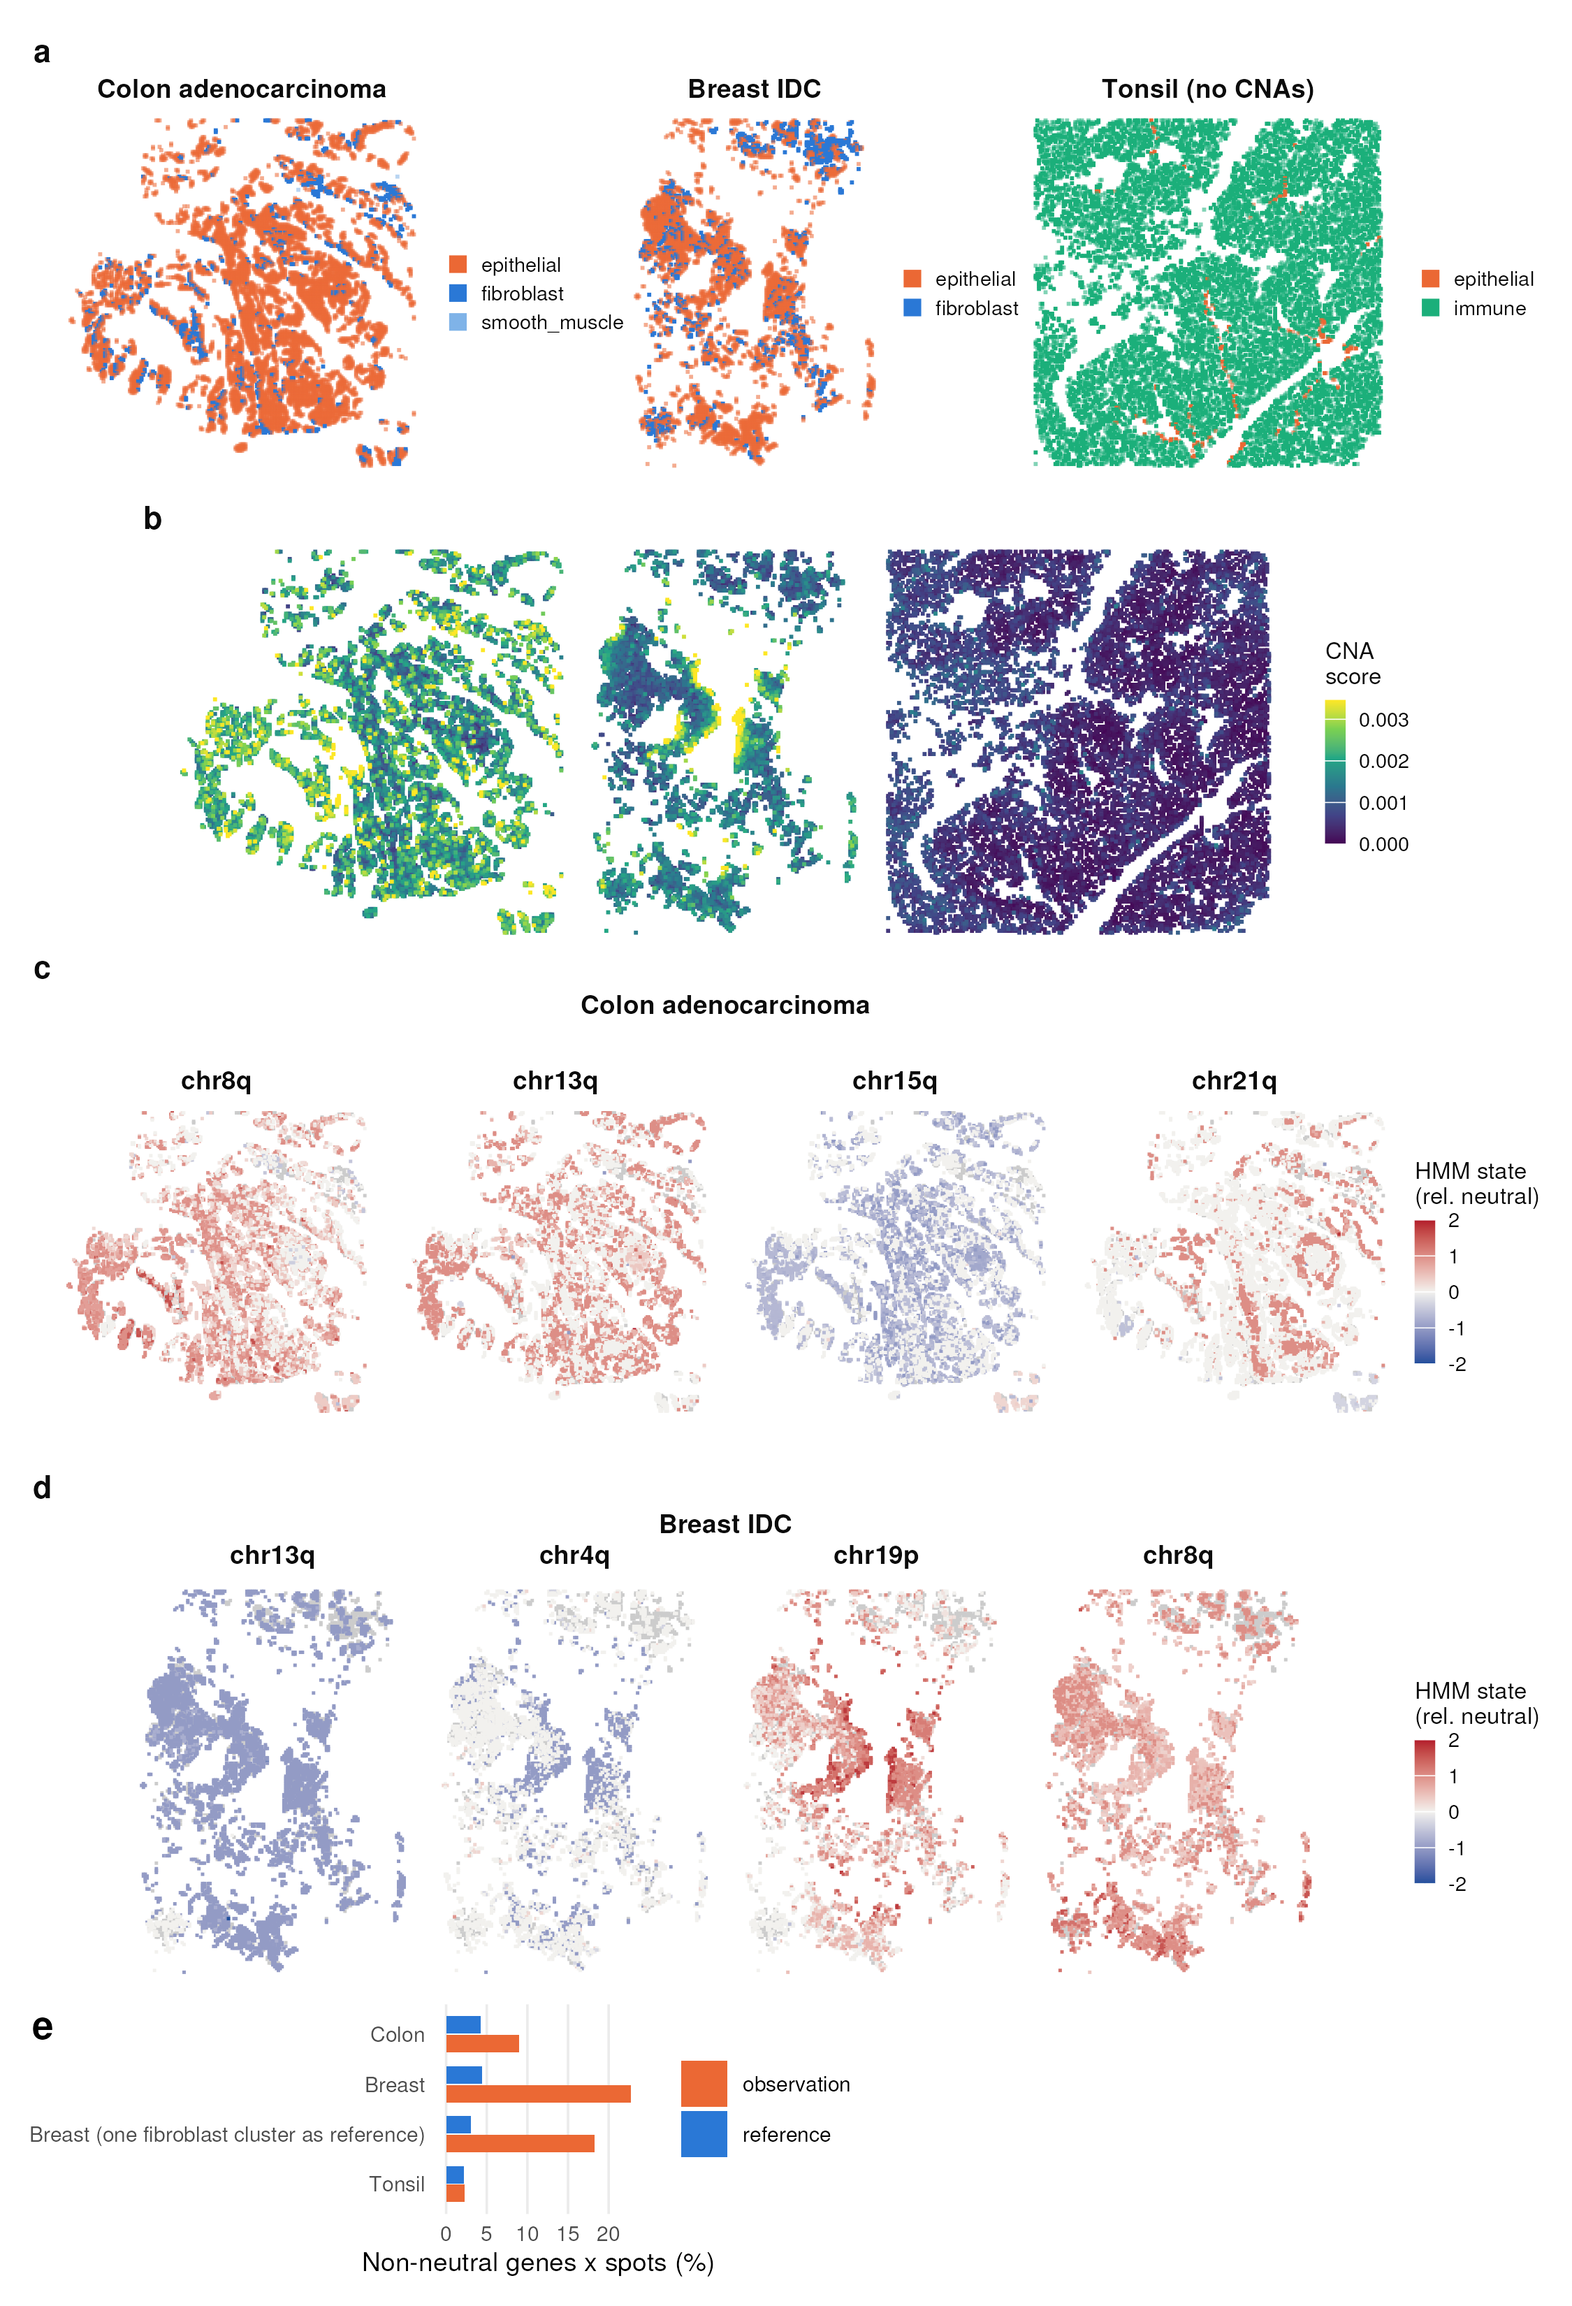
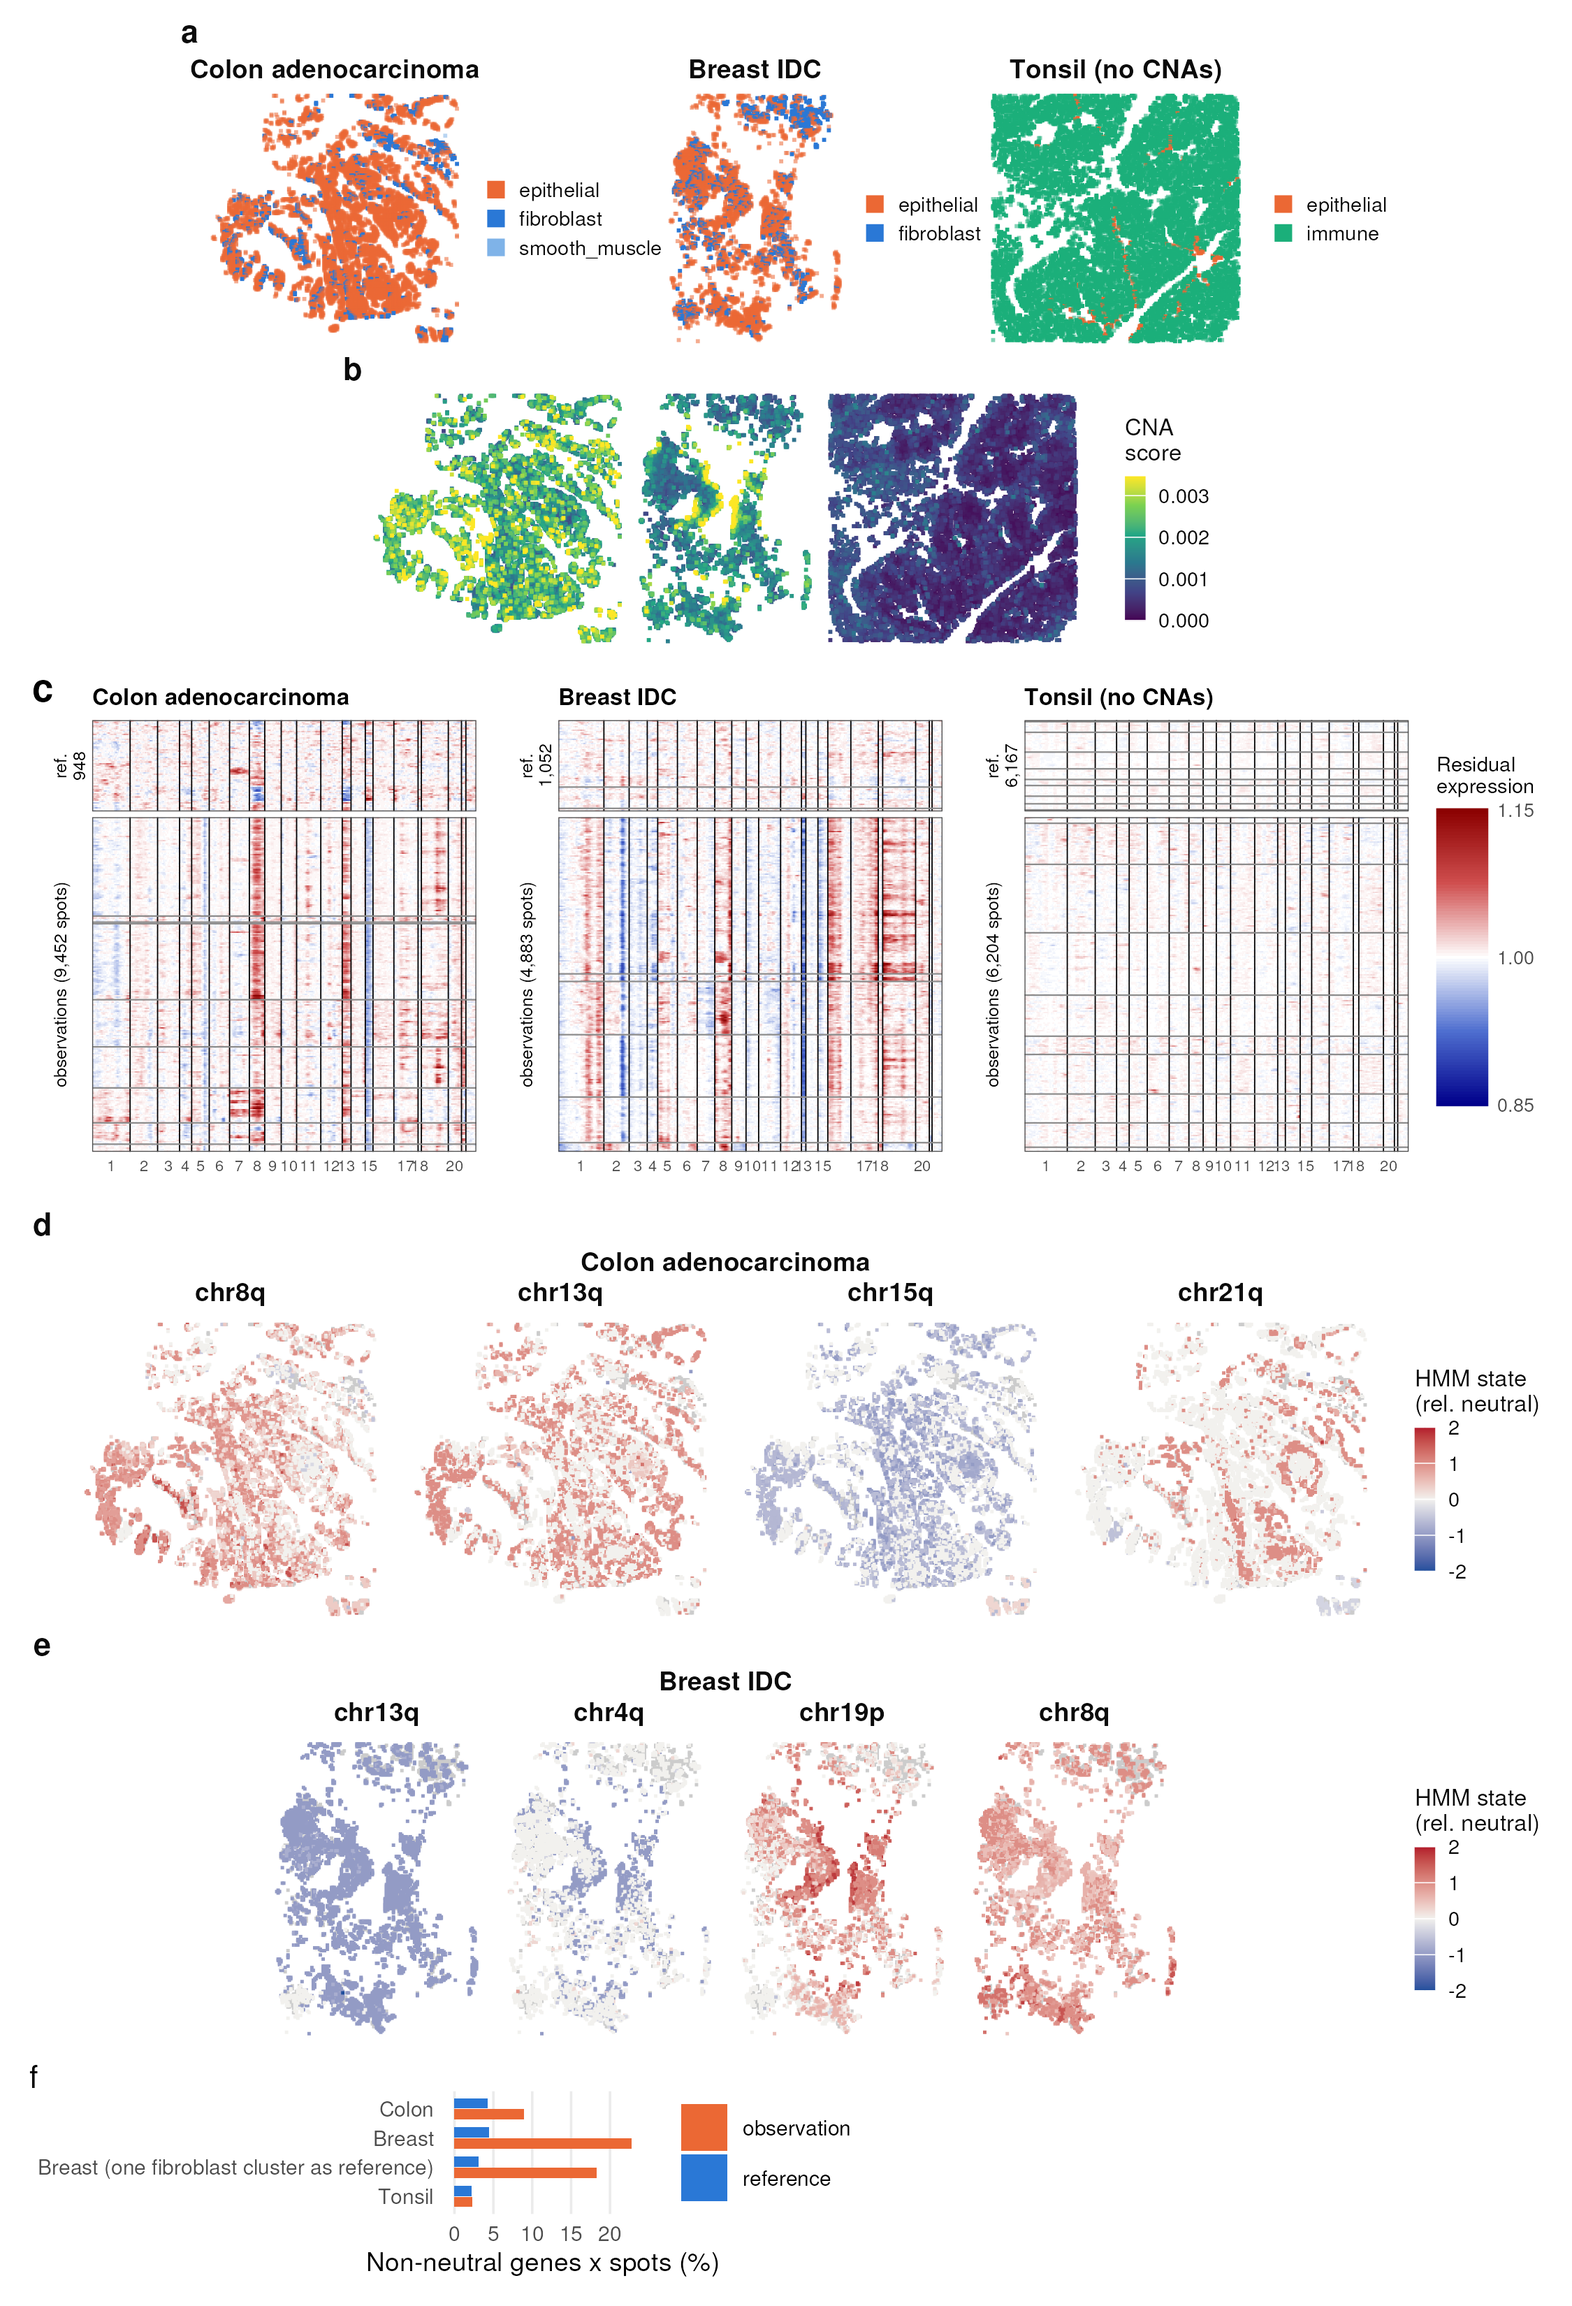
Fig. 9: add genome-wide inferCNV heatmaps for the three Visium HD sections
New panel c (reference and observation spots, chromosomes 1-22, common scale); panels
relettered (d-f), caption and Results references updated; note on colon reference spots
carrying 8q/13q signal at the tumour border.

Changed region(s): [[0.0311, 0.0312, 0.9644, 0.9988], [0.9022, 0.7179, 0.9644, 0.8739], [0.4356, 0.8739, 0.5289, 0.9676]]

diff --git a/sections/results.tex b/sections/results.tex
@@ -110,5 +110,5 @@ inferCNV has been used to map CNAs in spot-based spatial transcriptomics \citep{
 
 \placefloat{fig:8}
 
-In the tonsil, with half of each cluster as the reference for the other half, 2.3\% of genes $\times$ spots were in a non-neutral state without Bayesian filtering, against 9.0\% in the colon and 22.7\% in the breast tumour epithelium (Fig.~\ref{fig:8}b, e). In the colon tumour, gains of 8q and 13q, which are among the most frequent CNAs of colorectal cancer, covered most of the epithelium (59\% and 52\% of epithelial spots), together with a loss of 15q (51\%) (Fig.~\ref{fig:8}c). Gain of 21q was restricted to part of the tumour, and 8q was gained most strongly in a region where 21q was not, indicating spatially separated subclones. In the breast tumour, 13q was lost in 97\% of epithelial spots, and 8q and 1q were gained in 60\% and 58\% (Fig.~\ref{fig:8}d). A gain of 19p (47\% of spots) and a loss of 4q (25\%) coincided in a central region: 85\% of the spots with 4q loss also had the 19p gain, and these spots were not shallower than the others. With one fibroblast cluster instead of three as the reference, the non-neutral fraction in the breast epithelium fell from 22.7\% to 18.3\%, and the mean state per arm changed by at most 0.13 for these arms (for example, 13q $-0.96$ and $-0.91$). Without DNA copy number for these sections, the calls cannot be checked directly. Their agreement with the CNAs typical of each cancer, their spatial coherence and the low rate in the tonsil nevertheless indicate that inferCNV detects tumour CNAs and their subclonal structure in spatial long-read data.
+In the tonsil, with half of each cluster as the reference for the other half, 2.3\% of genes $\times$ spots were in a non-neutral state without Bayesian filtering, against 9.0\% in the colon and 22.7\% in the breast tumour epithelium (Fig.~\ref{fig:8}b, f). The genome-wide residual expression showed the main events of each tumour as blocks across most epithelial spots, and no comparable blocks in the tonsil (Fig.~\ref{fig:8}c). A subset of the colon reference spots carried the 8q and 13q gains, presumably because some 32-\textmu m spots at the tumour border contain epithelial cells as well as fibroblasts. In the colon tumour, gains of 8q and 13q, which are among the most frequent CNAs of colorectal cancer, covered most of the epithelium (59\% and 52\% of epithelial spots), together with a loss of 15q (51\%) (Fig.~\ref{fig:8}d). Gain of 21q was restricted to part of the tumour, and 8q was gained most strongly in a region where 21q was not, indicating spatially separated subclones. In the breast tumour, 13q was lost in 97\% of epithelial spots, and 8q and 1q were gained in 60\% and 58\% (Fig.~\ref{fig:8}e). A gain of 19p (47\% of spots) and a loss of 4q (25\%) coincided in a central region: 85\% of the spots with 4q loss also had the 19p gain, and these spots were not shallower than the others. With one fibroblast cluster instead of three as the reference, the non-neutral fraction in the breast epithelium fell from 22.7\% to 18.3\%, and the mean state per arm changed by at most 0.13 for these arms (for example, 13q $-0.96$ and $-0.91$). Without DNA copy number for these sections, the calls cannot be checked directly. Their agreement with the CNAs typical of each cancer, their spatial coherence and the low rate in the tonsil nevertheless indicate that inferCNV detects tumour CNAs and their subclonal structure in spatial long-read data.
 

diff --git a/sections/figure_defs.tex b/sections/figure_defs.tex
@@ -83,7 +83,7 @@
 \begin{figure}[tbp]
 \centering
 \includegraphics[width=\textwidth]{figures/fig8_visiumhd.png}
-\caption{\textbf{Spatial long-read data (Kinnex Visium HD).} Sections of a colon adenocarcinoma, a breast infiltrating ductal carcinoma and a tonsil, summed into 32-\textmu m spots with at least 1,000 counts. (a) Tissue compartments from marker scores of spot clusters; reference spots are shown in full colour. In the tumours, fibroblast spots were the reference for epithelial spots; in the tonsil, which serves as a control without CNAs, half of each cluster was the reference for the other half. (b) CNA score (mean squared residual expression), on a common scale. (c, d) Mean HMM state, relative to neutral, of each spot's inferCNV subcluster over selected chromosome arms in the colon (c) and breast (d) tumours; reference spots in grey. (e) Fraction of genes $\times$ spots in a non-neutral i6 state (HMM without Bayesian filter) in observation and reference spots, including the breast tumour analysed with a single fibroblast cluster as the reference.}
+\caption{\textbf{Spatial long-read data (Kinnex Visium HD).} Sections of a colon adenocarcinoma, a breast infiltrating ductal carcinoma and a tonsil, summed into 32-\textmu m spots with at least 1,000 counts. (a) Tissue compartments from marker scores of spot clusters; reference spots are shown in full colour. In the tumours, fibroblast spots were the reference for epithelial spots; in the tonsil, which serves as a control without CNAs, half of each cluster was the reference for the other half. (b) CNA score (mean squared residual expression), on a common scale. (c) Genome-wide inferCNV residual expression (chromosomes 1--22) of the reference spots (top) and observation spots (bottom) of each section, on a common colour scale; spots are ordered by cluster (grey lines) and, within clusters, by subcluster, and rows and genes are averaged in blocks for display. (d, e) Mean HMM state, relative to neutral, of each spot's inferCNV subcluster over selected chromosome arms in the colon (d) and breast (e) tumours; reference spots in grey. (f) Fraction of genes $\times$ spots in a non-neutral i6 state (HMM without Bayesian filter) in observation and reference spots, including the breast tumour analysed with a single fibroblast cluster as the reference.}
 \label{fig:8}
 \end{figure}}
 
